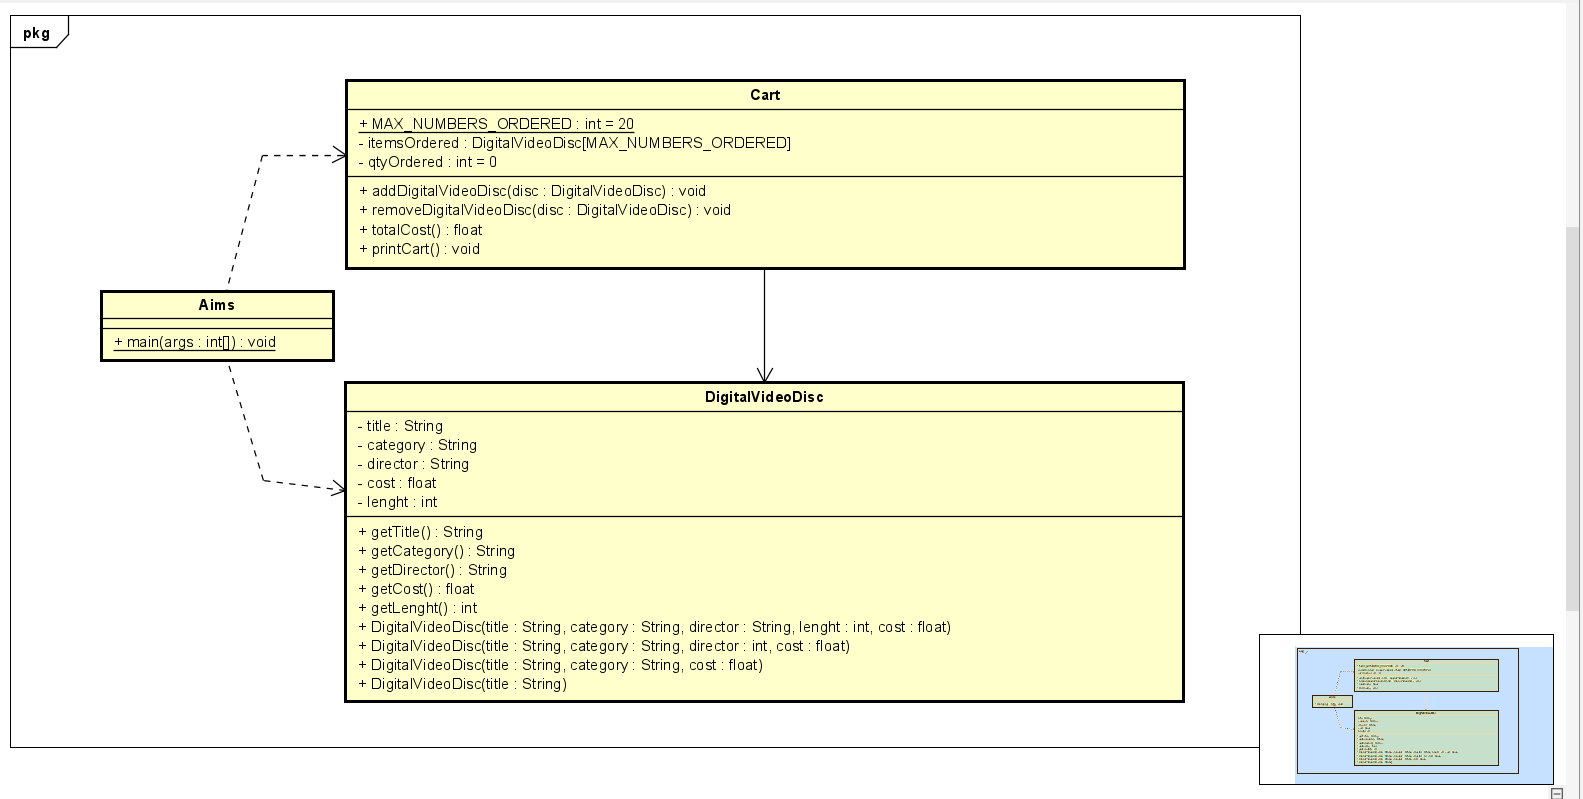
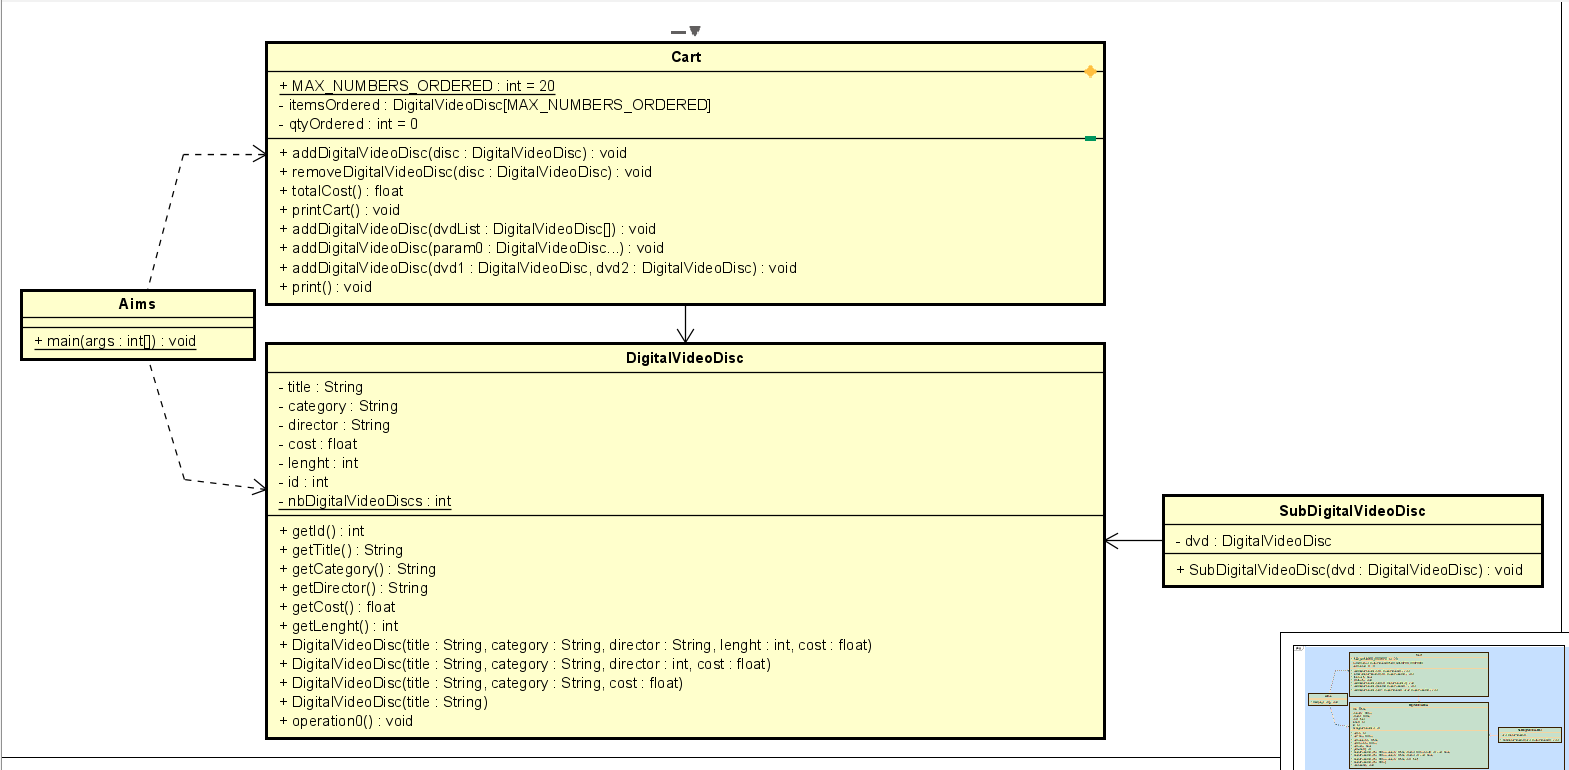
lab3

diff --git a/AimsProject/src/Cart.java b/AimsProject/src/Cart.java
@@ -99,11 +99,23 @@ public class Cart {
     }
 
     // Phương thức in danh sách đĩa video trong giỏ hàng
-    public void printCart() {
-        System.out.println("Items in the cart:");
-        for (int i = 0; i < qtyOrdered; i++) {
-            System.out.println("- " + itemsOrdered[i].getTitle() + " (Cost: " + itemsOrdered[i].getCost() + ")");
-        }
-        System.out.println("Total Cost: " + totalCost());
+//    public void printCart() {
+//        System.out.println("Items in the cart:");
+//        for (int i = 0; i < qtyOrdered; i++) {
+//            System.out.println("- " + itemsOrdered[i].getTitle() + " (Cost: " + itemsOrdered[i].getCost() + ")");
+//        }
+//        System.out.println("Total Cost: " + totalCost());
+//    }
+    
+    public void print()
+    {
+    	System.out.println("**************************CART***********************");
+    	System.out.println("Ordered Items:");
+    	for (int i = 0; i < qtyOrdered; i++)
+    	{
+    		System.out.println(itemsOrdered[i]);
+    	}
+    	System.out.println("Total cost: " + totalCost());
+    	System.out.println("*****************************************************");
     }
 }

diff --git a/AimsProject/src/CartTest.java b/AimsProject/src/CartTest.java
@@ -1,0 +1,21 @@
+public class CartTest {
+    public static void main(String[] args) {
+     
+        Cart cart = new Cart();
+        
+        DigitalVideoDisc dvd1 = new DigitalVideoDisc("The Lion King", 
+        		"Animation", "Roger Allers", 87, 19.95f); 
+        cart.addDigitalVideoDisc(dvd1);
+
+        DigitalVideoDisc dvd2 = new DigitalVideoDisc("Star War", 
+        		"Science Fiction", "George Lucas", 87, 24.95f); 
+        cart.addDigitalVideoDisc(dvd2);
+
+        DigitalVideoDisc dvd3 = new DigitalVideoDisc("Aladin", 
+        		"Animation", 18.99f);
+        cart.addDigitalVideoDisc(dvd3);
+
+        cart.print();
+        
+    }
+}
